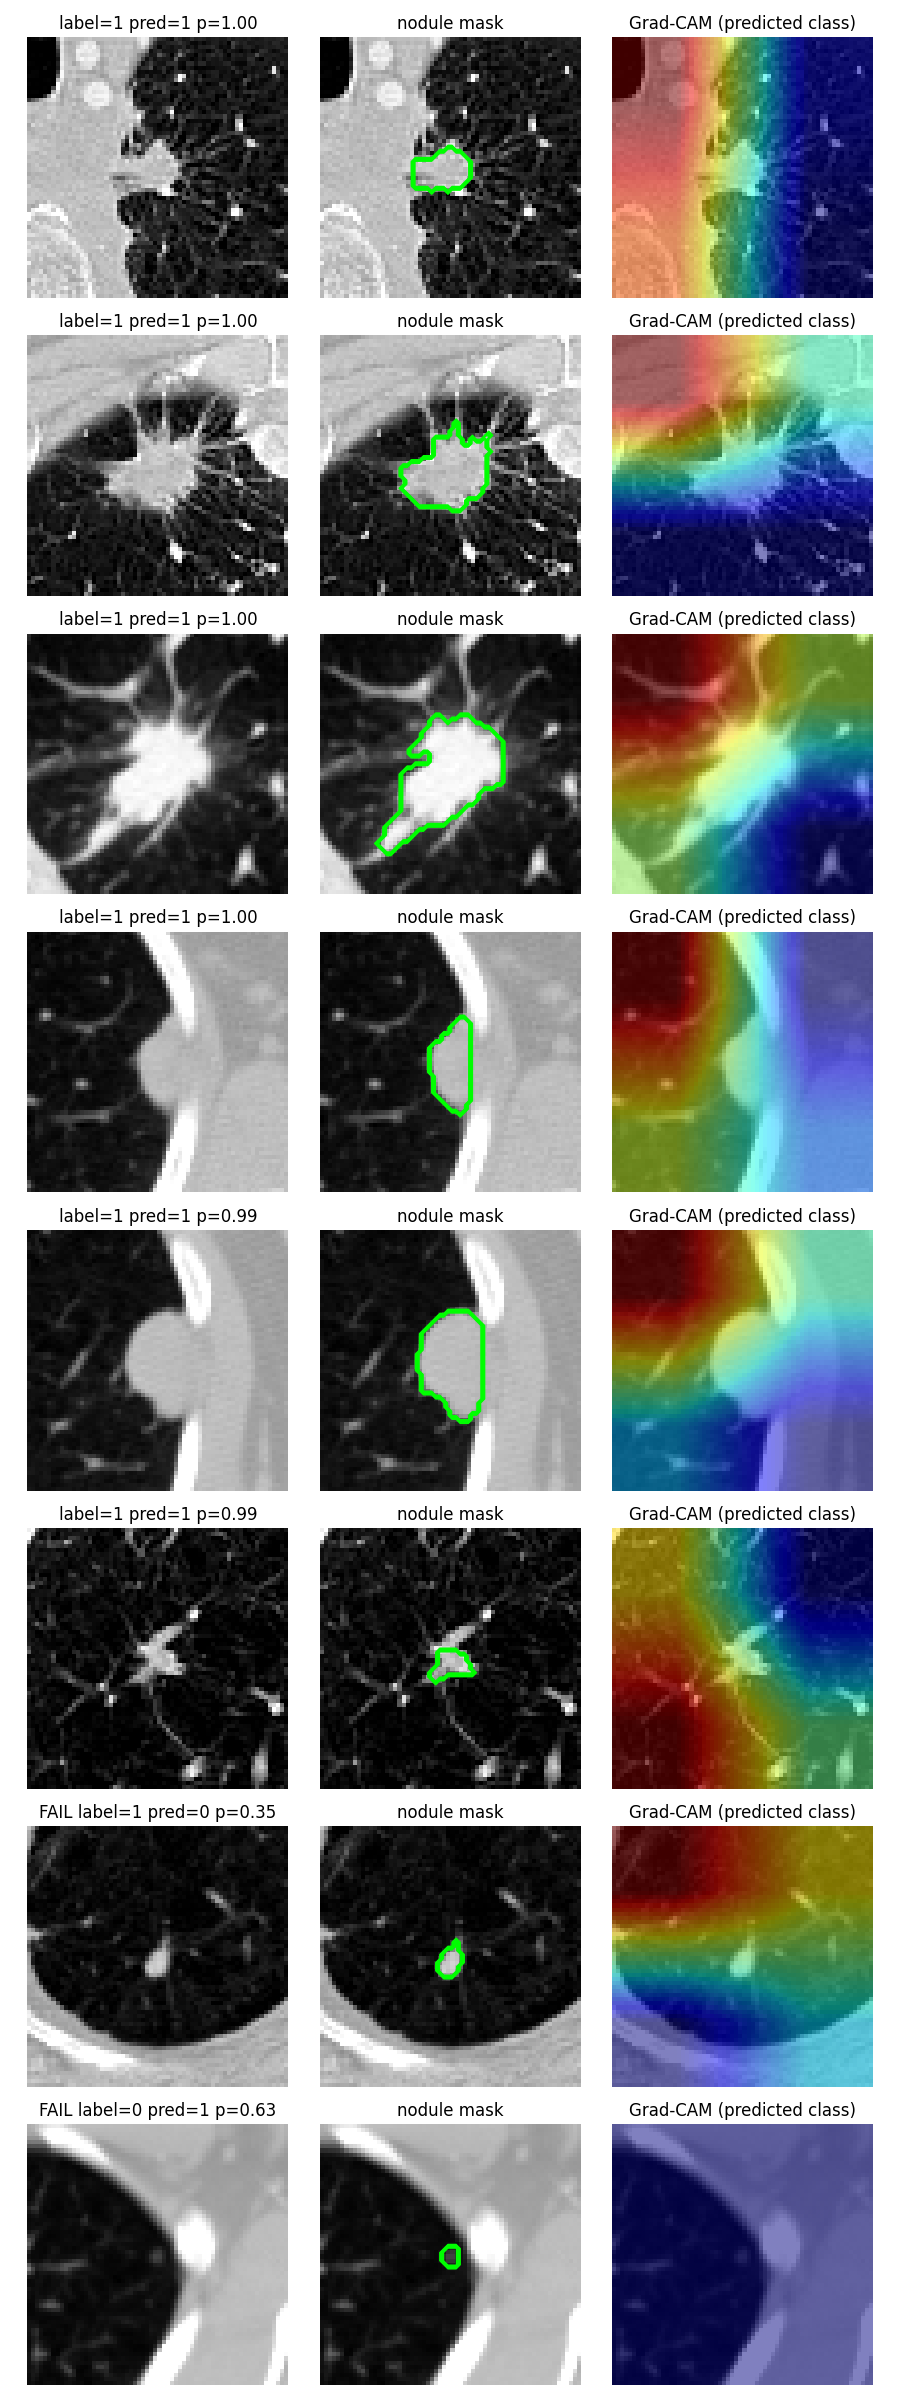
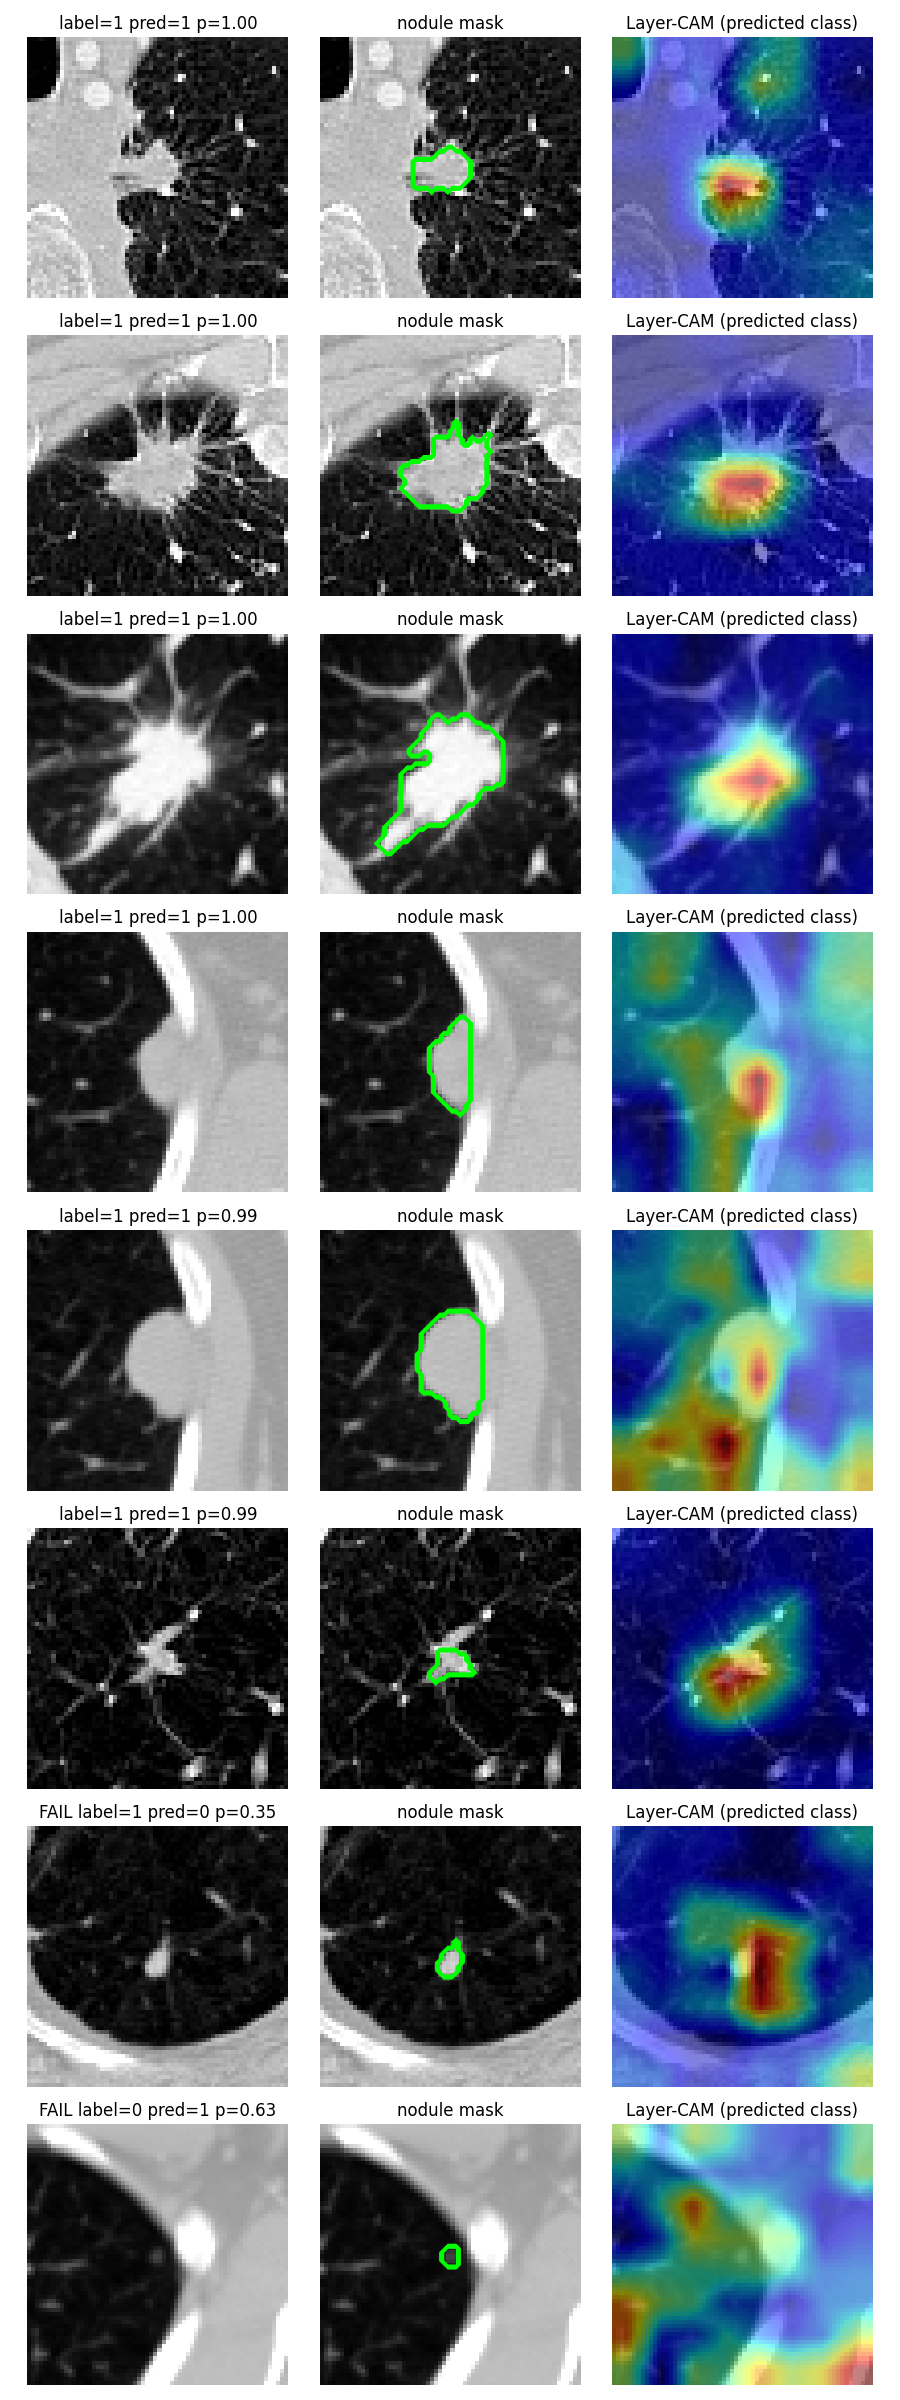
fix: resolve Grad-CAM spatial-resolution collapse with Layer-CAM at 8x8 stage
Root cause of the always-corner heatmap (pointing_acc=0.000 across all
6 backbones): 64x64 input through stride-32 backbones collapses the
last conv feature map to ~2x2, which upsampling turns into a fixed
corner blob regardless of nodule position. Confirmed via forward-hook
introspection on the remote GPU.

Adds _auto_target_layer() to pick the deepest ~8x8 feature map per
backbone instead of the coarse last layer, and switches the default
CAM method to Layer-CAM (plus HiResCAM available). ViT path untouched
(already correct at 14x14 tokens).

Result: pointing_acc rises from 0.000 to 0.08-0.20 for 4/6 backbones,
dice/iou improve 5-15x, and heatmaps now visually overlap the nodule
mask (see xai_vgg16.png). mobilenetv3_small and vit_base remain
near-zero pointing_acc, a known residual limitation.

Adds dice_size_matched() metric to avoid the IoU ceiling imposed by a
fixed top-20% threshold on small lesions.

Changed region(s): [[0.6533, 0.0, 0.9956, 1.0]]

diff --git a/src/xai/gradcam_utils.py b/src/xai/gradcam_utils.py
@@ -63,12 +63,53 @@ def _get_target_layer(model: Any, backbone_name: str) -> Any:
     raise ValueError(f"Cannot resolve target layer for backbone: {backbone_name}")
 
 
+def _auto_target_layer(model: Any, sample_input: Any, lo: int = 7, hi: int = 10) -> Any:
+    """Pick the deepest spatial (4D) submodule whose feature-map height falls in [lo, hi].
+
+    For small (e.g. 64x64) inputs, the last conv layer of stride-32 backbones collapses
+    to ~2x2, which is too coarse for CAM to localize a small lesion. This scans all
+    submodules via forward hooks and returns the deepest one with an ~8x8 map instead.
+    Falls back to None if no candidate is found (caller should fall back to
+    `_get_target_layer`).
+    """
+    import torch
+
+    candidates: list[tuple[int, Any]] = []
+    order = 0
+
+    def make_hook(module: Any):
+        nonlocal order
+
+        def hook(mod: Any, inp: Any, out: Any) -> None:
+            nonlocal order
+            if isinstance(out, torch.Tensor) and out.dim() == 4:
+                h = out.shape[2]
+                if lo <= h <= hi:
+                    candidates.append((order, mod))
+            order += 1
+
+        return hook
+
+    handles = [m.register_forward_hook(make_hook(m)) for m in model.modules()]
+    try:
+        with torch.no_grad():
+            model(sample_input)
+    finally:
+        for h in handles:
+            h.remove()
+
+    if not candidates:
+        return None
+    candidates.sort(key=lambda t: t[0])
+    return candidates[-1][1]  # deepest (last-executed) module in the target resolution band
+
+
 def compute_gradcam(
     model: Any,
     img_tensor: Any,
     backbone_name: str,
     target_class: Optional[int] = None,
-    method: str = "gradcam",
+    method: str = "layercam",
 ) -> np.ndarray:
     """Compute saliency map using pytorch-grad-cam.
 
@@ -82,13 +123,25 @@ def compute_gradcam(
             but note this produces an empty/near-zero map on samples the
             model does not associate with that class — expected Grad-CAM
             behavior (ReLU zeroes out unsupported classes), not a bug.
-        method: one of 'gradcam', 'gradcampp', 'scorecam', 'eigencam'
+        method: one of 'layercam', 'hirescam', 'gradcam', 'gradcampp', 'scorecam',
+            'eigencam'. Default 'layercam': at a small (e.g. 64x64) input, the last
+            conv layer of stride-32 CNN backbones collapses to ~2x2, too coarse to
+            localize a small nodule. For non-ViT backbones the target layer is
+            auto-selected as the deepest ~8x8 feature map (`_auto_target_layer`)
+            instead of the last (2x2) layer.
 
     Returns:
         grayscale_cam: (H, W) numpy array, values in [0, 1]
     """
     try:
-        from pytorch_grad_cam import GradCAM, GradCAMPlusPlus, ScoreCAM, EigenCAM
+        from pytorch_grad_cam import (
+            GradCAM,
+            GradCAMPlusPlus,
+            ScoreCAM,
+            EigenCAM,
+            LayerCAM,
+            HiResCAM,
+        )
         from pytorch_grad_cam.utils.model_targets import ClassifierOutputTarget
     except ImportError as e:
         raise ImportError(
@@ -100,11 +153,18 @@ def compute_gradcam(
         "gradcampp": GradCAMPlusPlus,
         "scorecam": ScoreCAM,
         "eigencam": EigenCAM,
+        "layercam": LayerCAM,
+        "hirescam": HiResCAM,
     }
     if method not in cam_classes:
         raise ValueError(f"method must be one of {list(cam_classes)}")
 
-    target_layer = _get_target_layer(model, backbone_name)
+    is_vit = "vit" in backbone_name.lower()
+    target_layer = None
+    if not is_vit:
+        target_layer = _auto_target_layer(model, img_tensor)
+    if target_layer is None:
+        target_layer = _get_target_layer(model, backbone_name)
     targets = None if target_class is None else [ClassifierOutputTarget(target_class)]
 
     reshape_transform = vit_reshape_transform if "vit" in backbone_name.lower() else None
@@ -169,6 +229,26 @@ def dice_iou(cam_map: np.ndarray, mask: np.ndarray, pct: float = 0.80) -> tuple[
     dice = 2 * inter / (s.sum() + g.sum() + 1e-7)
     iou = inter / (np.logical_or(s, g).sum() + 1e-7)
     return float(dice), float(iou)
+
+
+def dice_size_matched(cam_map: np.ndarray, mask: np.ndarray) -> float:
+    """Dice using a size-matched threshold: top-k CAM pixels, k = nodule area in pixels.
+
+    Avoids the IoU/Dice ceiling imposed by a fixed top-20% threshold when the nodule
+    occupies a much smaller fraction of the patch (e.g. <10%).
+    """
+    g = mask.astype(bool)
+    k = int(g.sum())
+    if k == 0:
+        return 0.0
+    flat = cam_map.ravel()
+    k = min(k, flat.size)
+    thr_idx = np.argpartition(flat, -k)[-k:]
+    s = np.zeros_like(flat, dtype=bool)
+    s[thr_idx] = True
+    s = s.reshape(cam_map.shape)
+    inter = np.logical_and(s, g).sum()
+    return float(2 * inter / (s.sum() + g.sum() + 1e-7))
 
 
 def pointing_hit(cam_map: np.ndarray, mask: np.ndarray) -> bool:

diff --git a/src/stage_05_xai.py b/src/stage_05_xai.py
@@ -28,6 +28,7 @@ def run(cfg: dict) -> None:
     from src.xai.gradcam_utils import (
         compute_gradcam,
         dice_iou,
+        dice_size_matched,
         pointing_hit,
         energy_pointing_game,
     )
@@ -92,14 +93,14 @@ def run(cfg: dict) -> None:
         # Self-test: target layer must produce a spatial (H, W > 1) activation map.
         try:
             dummy = torch.zeros(1, n_slices, patch_xy, patch_xy, device=device)
-            _ = compute_gradcam(model, dummy, backbone_name=backbone_internal, method="gradcam")
+            _ = compute_gradcam(model, dummy, backbone_name=backbone_internal)
         except Exception as e:
             logger.warning("Target-layer self-test failed for %s: %s — skip", backbone, e)
             continue
 
         tp_candidates = []   # (prob, idx, img_chw, cam, mask2d, label, pred)
         fail_candidates = []
-        dices, ious, hits, energies = [], [], [], []
+        dices, ious, hits, energies, dices_sm = [], [], [], [], []
 
         for i, row in val_df.iterrows():
             img = load_patch_tensor(row["patch_path"]).to(device)
@@ -109,16 +110,18 @@ def run(cfg: dict) -> None:
                 pred = int(logits.argmax(dim=1).item())
             label = int(row["label"])
 
-            cam = compute_gradcam(model, img, backbone_name=backbone_internal, method="gradcam")
+            cam = compute_gradcam(model, img, backbone_name=backbone_internal)
 
             mask_full = np.load(row["mask_path"]).astype(np.float32)
             mid = mask_full.shape[0] // 2
             mask2d = mask_full[mid]
 
             d, iou = dice_iou(cam, mask2d)
+            d_sm = dice_size_matched(cam, mask2d)
             hit = pointing_hit(cam, mask2d)
             energy = energy_pointing_game(cam, mask2d)
             dices.append(d); ious.append(iou); hits.append(hit); energies.append(energy)
+            dices_sm.append(d_sm)
 
             img_chw = img[0].detach().cpu().numpy()
             entry = (prob, i, img_chw, cam, mask2d, label, pred)
@@ -133,6 +136,7 @@ def run(cfg: dict) -> None:
             "n": n,
             "dice": float(np.mean(dices)) if dices else float("nan"),
             "iou": float(np.mean(ious)) if ious else float("nan"),
+            "dice_size_matched": float(np.mean(dices_sm)) if dices_sm else float("nan"),
             "pointing_acc": float(np.mean(hits)) if hits else float("nan"),
             "energy_mean": float(np.mean(energies)) if energies else float("nan"),
             "threshold_pct": 0.80,
@@ -186,7 +190,7 @@ def _save_figure(backbone: str, curated: list, failures: list, out_dir: str) -> 
 
             axes[r, 2].imshow(ct, cmap="gray")
             axes[r, 2].imshow(cam, alpha=0.5, cmap="jet")
-            axes[r, 2].set_title("Grad-CAM (predicted class)")
+            axes[r, 2].set_title("Layer-CAM (predicted class)")
 
             for c in range(3):
                 axes[r, c].axis("off")